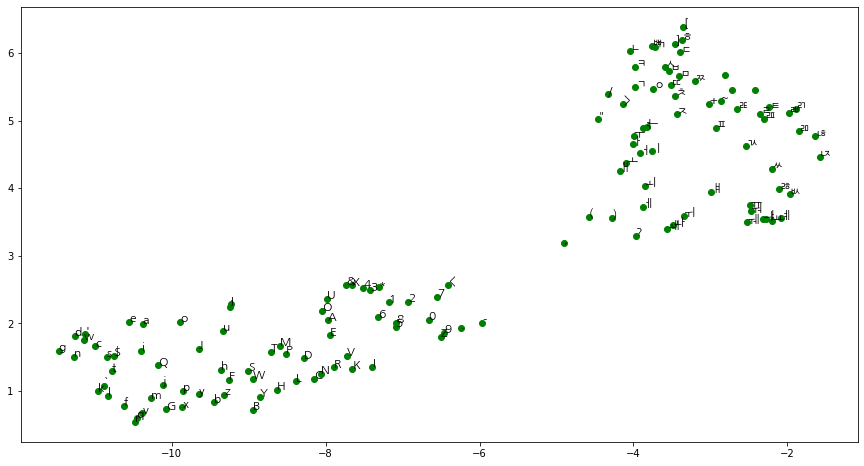
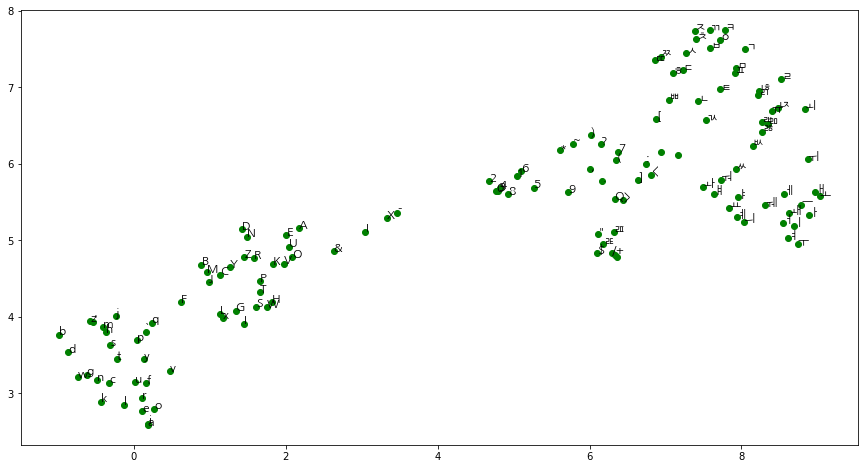
Use index for the char2vec dataset values

diff --git a/src/typewriter/usecases/char2vec.py b/src/typewriter/usecases/char2vec.py
@@ -5,7 +5,6 @@ import pathlib
 import numpy as np
 import runstats
 import torch
-import torch.nn.functional as F
 from torch.utils.data import DataLoader
 from typewriter.datasets.skip_gram_dataset import SkipGramDataset
 from typewriter.usecases.characters import get_characters
@@ -25,7 +24,7 @@ def get_embeddings():
     return embeddings
 
 
-def train_embeddings(encoding_size=16, n_epochs=1, embeddings: Embeddings = None, t=0.05):
+def train_embeddings(encoding_size=16, n_epochs=1, embeddings: Embeddings = None, t=0.1):
     np.random.seed(0)
     torch.manual_seed(0)
 
@@ -50,12 +49,15 @@ def train_embeddings(encoding_size=16, n_epochs=1, embeddings: Embeddings = None
 
     def criterion(logit: torch.Tensor, target: torch.Tensor):
         return -(
-            target * torch.log(F.sigmoid(logit)) + (1 - target) * torch.log(F.sigmoid(-logit))
+            target * torch.log(torch.sigmoid(logit))
+            + (1 - target) * torch.log(torch.sigmoid(-logit))
         ).mean()
 
     optimizer = torch.optim.Adam(model.parameters())
 
-    stats = runstats.Statistics()
+    stats_loss = runstats.Statistics()
+    stats_n_discarded_rows = runstats.Statistics()
+    stats_n_negative_samples = runstats.Statistics()
 
     character_list = characters.list()
 
@@ -74,37 +76,56 @@ def train_embeddings(encoding_size=16, n_epochs=1, embeddings: Embeddings = None
             batch_size = len(text)
 
             # subsampling
-            chars_to_discard = np.random.binomial(1, p=probs_to_discard).astype(bool)
-            rows_to_keep = ~(
-                (
-                    (text.bool() & chars_to_discard).any(axis=1)
-                    | (context.bool() & chars_to_discard).any(axis=1)
-                ).bool()
-            )
-            if not rows_to_keep.any():
-                continue
-            text = text[rows_to_keep]
-            context = context[rows_to_keep]
+            rows_to_discard = torch.zeros(batch_size, dtype=bool)
+            character_indices_to_discard = np.where(np.random.binomial(1, p=probs_to_discard))[0]
+            for idx in character_indices_to_discard:
+                rows_to_discard |= (text == idx).any()
+                rows_to_discard |= (context == idx).any()
+            stats_n_discarded_rows.push(rows_to_discard.sum().item())
 
-            text_mask = text.sum(axis=0).bool()
+            if not rows_to_discard.any():
+                text = text[~rows_to_discard]
+                context = context[~rows_to_discard]
 
-            # negative sampling
-            context_mask = context.sum(axis=0).bool()
-            context_mask |= np.random.binomial(1, p=negative_sampling_probs)
+                # negative sampling
+                all_contexts = [context]
+                all_texts = [text]
+                negative_sampling_indices = np.where(
+                    np.random.binomial(1, p=negative_sampling_probs)
+                )[0]
+                for idx in negative_sampling_indices:
+                    neg_ctx = torch.full(context.shape, idx)
+                    neg_txt = text
+                    # mask = neg_ctx != context
+                    # neg_ctx = neg_ctx[mask]
+                    # neg_txt = text[mask]
+                    all_contexts.append(neg_ctx)
+                    all_texts.append(neg_txt)
+                combined_context = torch.cat(all_contexts)
+                combined_text = torch.cat(all_texts)
+                combined_targets = torch.cat(
+                    (torch.ones(context.shape), torch.zeros(len(combined_context) - len(context)))
+                )
+                stats_n_negative_samples.push(len(negative_sampling_indices))
 
-            # train
-            logit = model(text, text_mask, context_mask)
-            loss = criterion(logit, context[:, context_mask])
-            optimizer.zero_grad()
-            loss.backward()
-            optimizer.step()
-            stats.push(loss.item())
+                # train
+                logit = model(combined_text, combined_context)
+                loss = criterion(logit, combined_targets)
+                optimizer.zero_grad()
+                loss.backward()
+                optimizer.step()
+                stats_loss.push(loss.item())
 
             if i % 1000 == 0:
                 print(
-                    f"i={i}, loss mean={stats.mean()}, max={stats.maximum()}, min={stats.minimum()}"
+                    f"i={i}, "
+                    f"mean(loss)={stats_loss.mean()}, "
+                    f"mean(# discarded rows)={stats_n_discarded_rows.mean()}, "
+                    f"mean(# negative samples)={stats_n_negative_samples.mean()}"
                 )
-                stats.clear()
+                stats_loss.clear()
+                stats_n_discarded_rows.clear()
+                stats_n_negative_samples.clear()
 
     return Embeddings(
         characters=characters,
@@ -121,10 +142,10 @@ def load_embeddings():
         return Embeddings.from_dict(json.loads(f.read()))
 
 
-def save_embeddings(embeddings):
+def save_embeddings(embeddings: Embeddings):
     assert embeddings
     assert isinstance(embeddings, Embeddings)
-    for c in embeddings:
+    for c in embeddings.characters.keys:
         assert isinstance(c, str)
         assert c
 
@@ -159,19 +180,16 @@ class Char2Vec(torch.nn.Module):
             )
             torch.nn.init.kaiming_uniform_(self.w_out, a=math.sqrt(5))
 
-    def forward(self, x, text_mask=None, context_mask=None):
-        # x.shape = (batch_size, n_embeddings)
-        if text_mask is None:
-            x = x @ self.w_in
-        else:
-            x = x[:, text_mask] @ self.w_in[text_mask, :]
+    def forward(self, text_indices, context_indices):
+        # text_indices.shape = (batch_size,)
+        # context_indices.shape = (batch_size,)
+
+        x = self.w_in[text_indices, :]
 
         # x.shape = (batch_size, encoding_size)
-        if context_mask is None:
-            x = x @ self.w_out.T
-            # x.shape = (batch_size, n_embeddings)
-        else:
-            x = x @ self.w_out[context_mask, :].T
-            # x.shape = (batch_size, context_mask.sum())
+
+        x = (x * self.w_out[context_indices, :]).sum(dim=1)
+
+        # x.shape = (batch_size, )
 
         return x

diff --git a/tests/typewriter/usecases/test_char2vec.py b/tests/typewriter/usecases/test_char2vec.py
@@ -1,4 +1,3 @@
-import numpy as np
 import pytest
 import torch
 from typewriter.usecases.char2vec import Char2Vec, train_embeddings
@@ -7,31 +6,15 @@ from typewriter.usecases.char2vec import Char2Vec, train_embeddings
 class TestChar2Vec:
     @staticmethod
     def test_char2vec():
-
-        batch_size = 4
-        n_embeddings = 3
+        n_embeddings = 4
         encoding_size = 5
         model = Char2Vec(n_embeddings=n_embeddings, encoding_size=encoding_size)
 
-        input_tensor = torch.zeros(batch_size, n_embeddings)
-        input_tensor[:, 0] = 1
-        output_tensor = model(input_tensor)
+        text_indices = torch.tensor([0, 1, 1, 2, 2, 3], dtype=int)
+        context_indices = torch.tensor([1, 0, 2, 1, 3, 2], dtype=int)
+        logits = model(text_indices, context_indices)
 
-        assert input_tensor.shape == output_tensor.shape
-
-    @staticmethod
-    def test_char2vec_with_mask():
-        batch_size = 4
-        n_embeddings = 3
-        encoding_size = 5
-        model = Char2Vec(n_embeddings=n_embeddings, encoding_size=encoding_size)
-
-        input_tensor = torch.zeros(batch_size, n_embeddings)
-        input_tensor[:, 0] = 1
-        mask = np.array([True, True, False], dtype=bool)
-        output_tensor = model(input_tensor, mask=mask)
-
-        assert input_tensor[:, mask].shape == output_tensor.shape
+        assert context_indices.shape == logits.shape
 
     @pytest.mark.skip(reason="takes too long and updates embeddings saved")
     @staticmethod

diff --git a/src/typewriter/datasets/skip_gram_dataset.py b/src/typewriter/datasets/skip_gram_dataset.py
@@ -4,7 +4,7 @@ from functools import lru_cache
 from torch.utils.data.dataset import Dataset
 from typewriter.transforms.compose import Compose
 from typewriter.transforms.mark_end import MarkEnd
-from typewriter.transforms.onehot import OneHot
+from typewriter.transforms.character_index import CharacterIndex
 from typewriter.transforms.skip_gram import SkipGram
 from typewriter.values.characters import Characters
 
@@ -25,7 +25,7 @@ class SkipGramDataset(Dataset):
         self.transform = Compose(
             [
                 MarkEnd(),
-                OneHot(characters),
+                CharacterIndex(characters),
                 skip_gram,
             ]
         )

diff --git a/src/typewriter/transforms/skip_gram.py b/src/typewriter/transforms/skip_gram.py
@@ -30,11 +30,9 @@ class SkipGram(object):
         seqlen = len(sequence)
         assert seqlen >= self.window + 1
 
-        outlen = self.output_length(seqlen)
-
         text_indices, context_indices = self.build_indices(seqlen, self.window)
 
-        text = sequence[text_indices].reshape(outlen, -1)
-        context = sequence[context_indices].reshape(outlen, -1)
+        text = sequence[text_indices]
+        context = sequence[context_indices]
 
         return text, context

diff --git a/src/typewriter/transforms/character_index.py b/src/typewriter/transforms/character_index.py
@@ -1,0 +1,12 @@
+import numpy as np
+from typewriter.values.characters import Characters
+
+
+class CharacterIndex(object):
+    def __init__(self, characters: Characters):
+        assert characters
+        self.characters = characters.copy()
+        self.char2idx = {c: i for i, c in enumerate(characters.list())}
+
+    def __call__(self, text):
+        return np.array([self.char2idx[c] for c in text])

diff --git a/docs/char2vec.md b/docs/char2vec.md
@@ -18,7 +18,7 @@ from typewriter.usecases.char2vec import get_embeddings
 font = fm.FontProperties(fname='data/fonts/NanumGothic-Regular.ttf', size=12)
 
 embeddings = get_embeddings()
-df = pd.DataFrame(embeddings.w_in.T, index=embeddings.characters)
+df = pd.DataFrame(embeddings.w_in, index=embeddings.characters.keys)
 reducer = umap.UMAP(random_state=42).fit(df)
 reduced = pd.DataFrame(reducer.transform(df), index=df.index)
 
